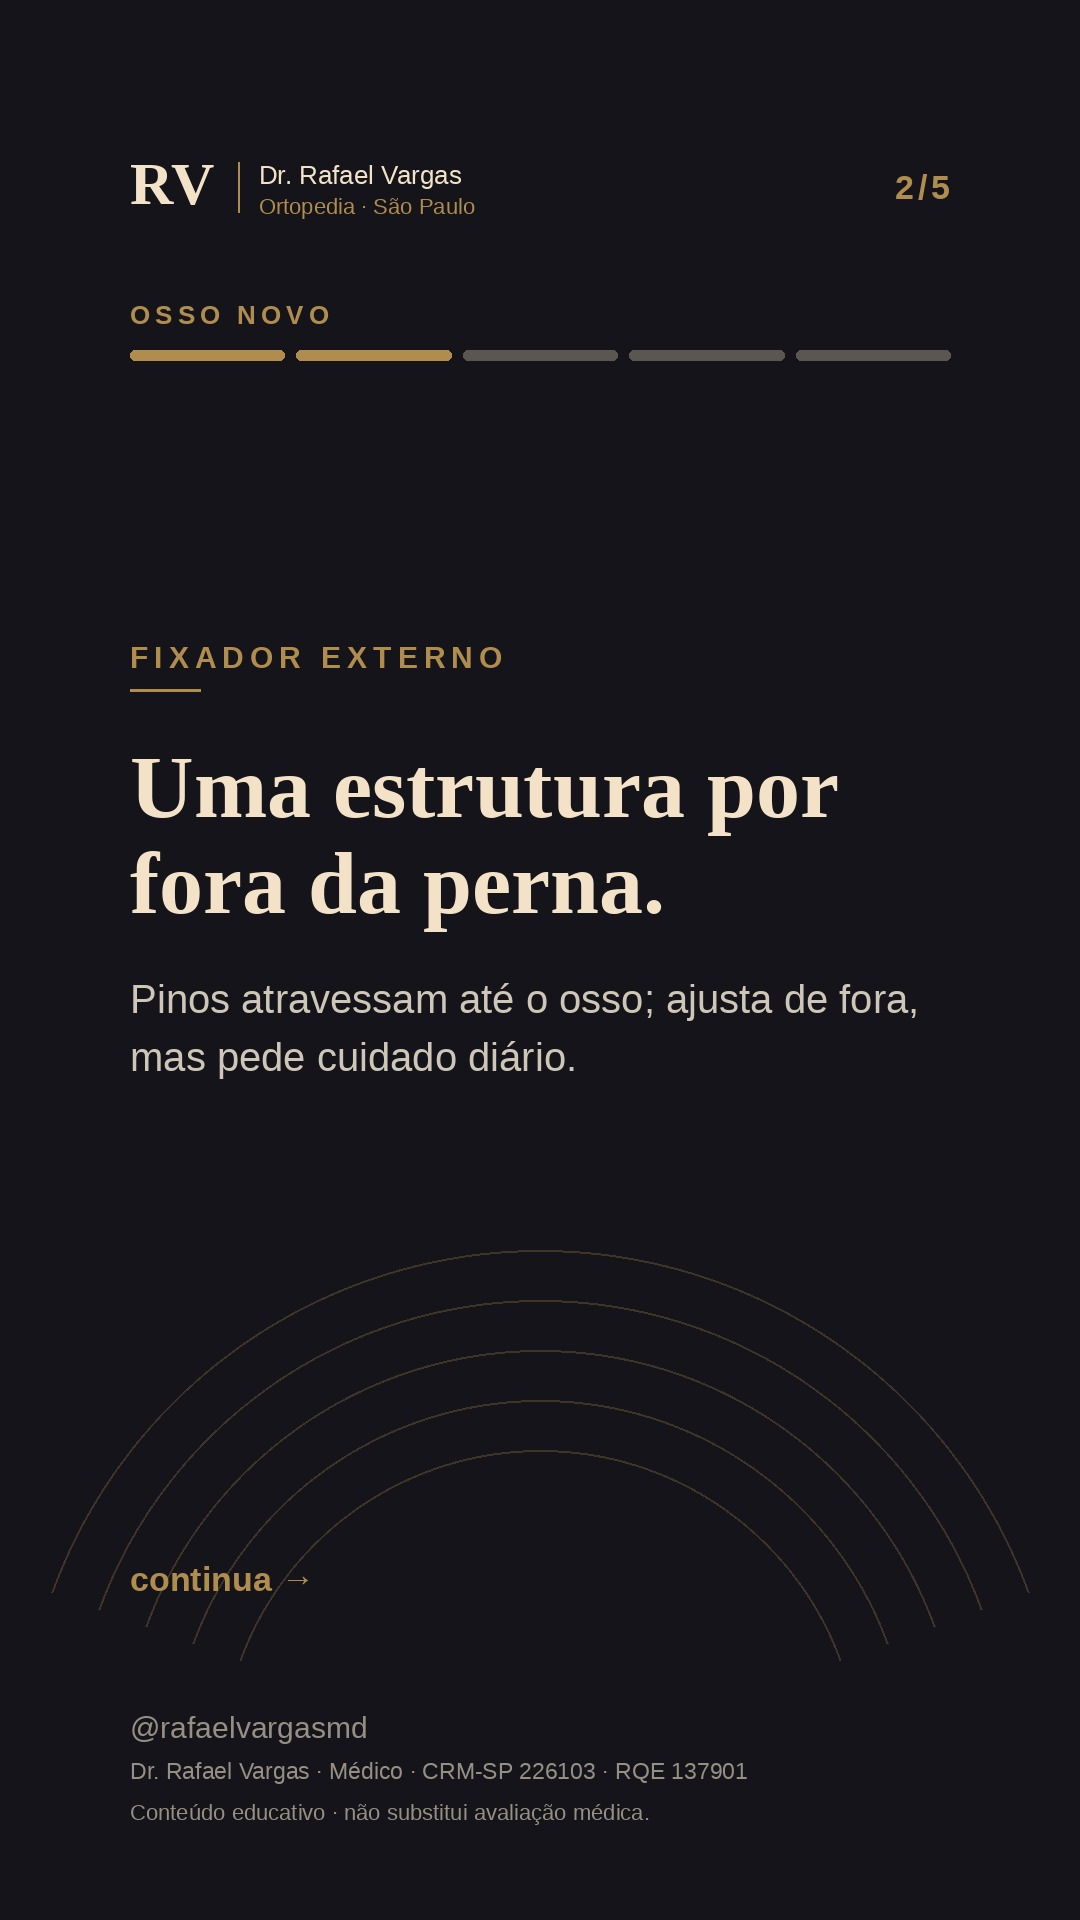
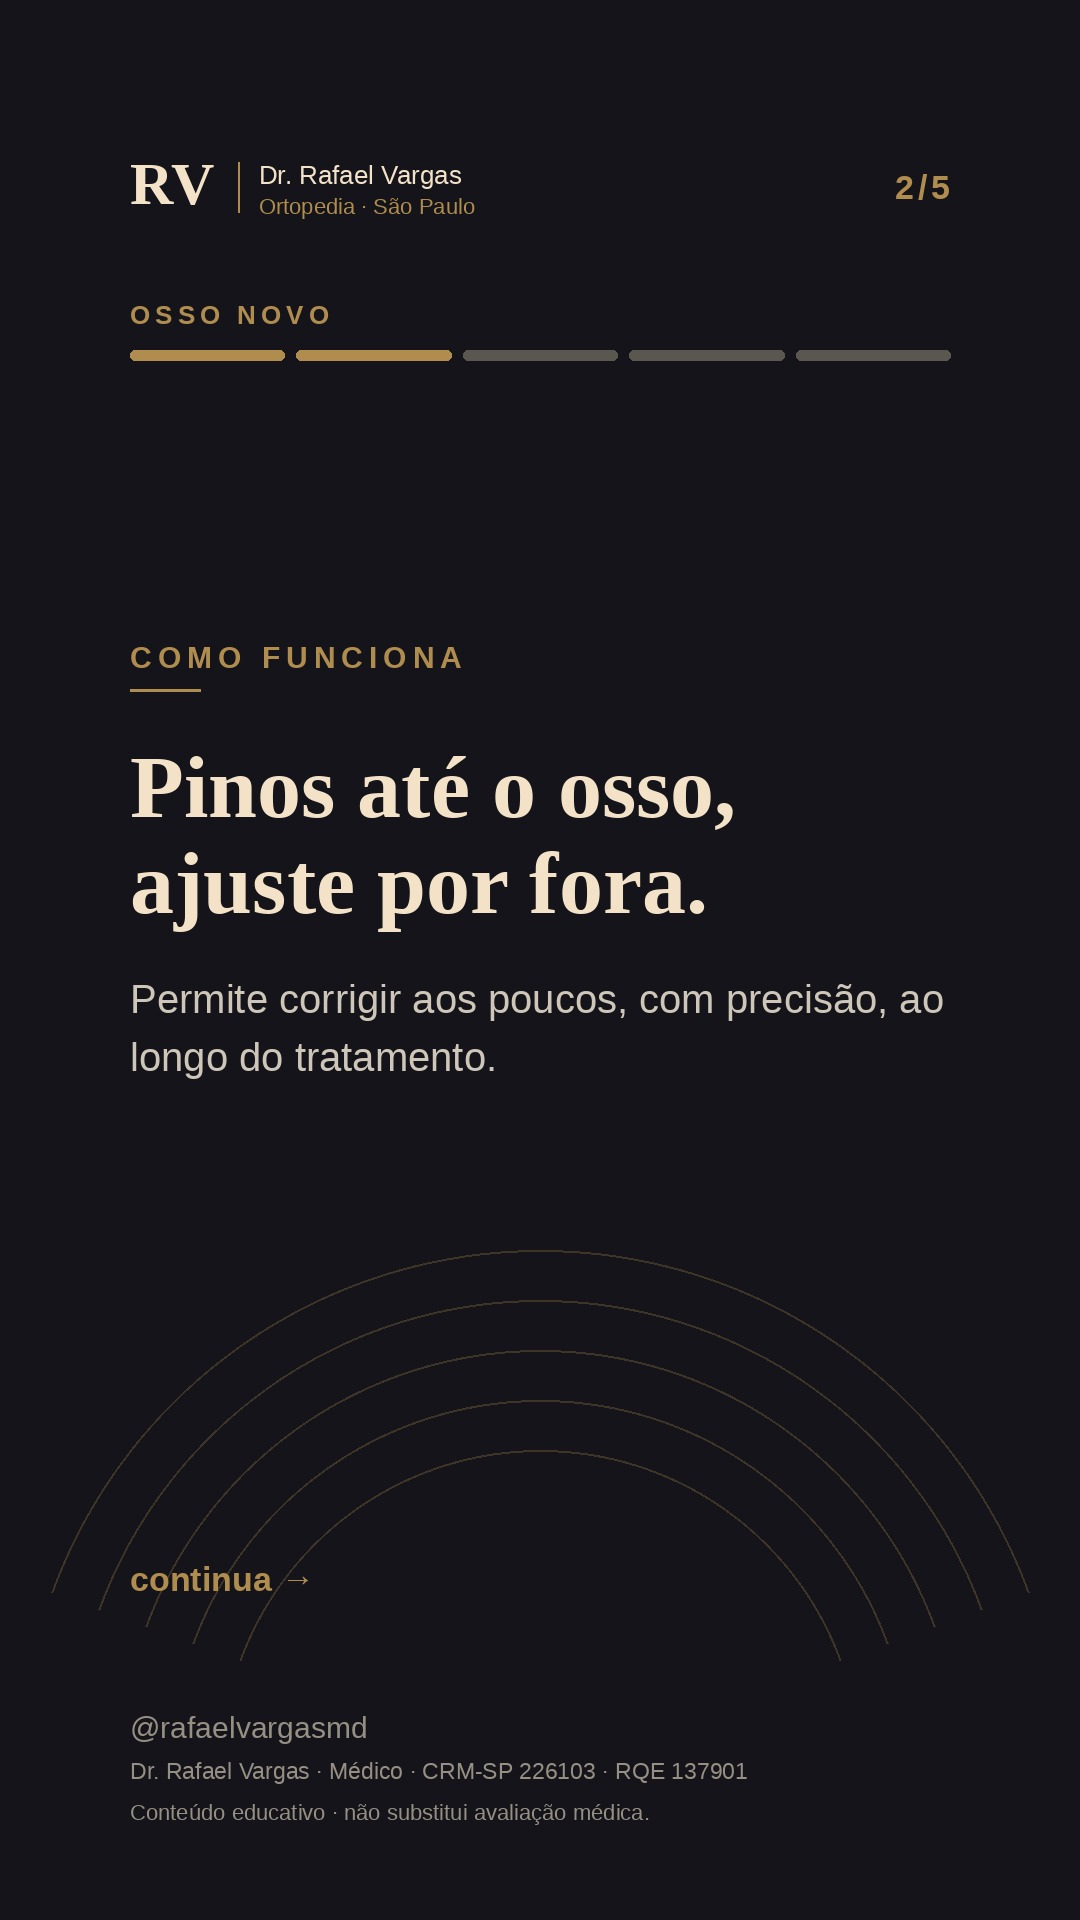
Corrige reel fixador x haste: enquadramento honesto (haste motorizada = alto custo/acesso restrito, nao comparacao leviana) + regenera carrossel/stories + caption

Changed region(s): [[0.1222, 0.375, 0.8861, 0.5625], [0.2444, 0.3125, 0.4278, 0.3438], [0.1222, 0.3125, 0.1833, 0.3438]]

diff --git a/episodios_novos_2026.py b/episodios_novos_2026.py
@@ -208,24 +208,24 @@ OSSO_NOVO = [
    {"k":"Na criança muda","sc":["Mede e remede","enquanto cresce."],"e":None,"sub":"Na criança, a previsão considera o quanto ainda vai crescer.",
     "vo":"E na criança tem um detalhe a mais: como ela ainda cresce, a gente mede e remede ao longo do tempo, prevendo a diferença lá no final do crescimento."},
    {"k":"Passa adiante","sc":["Salva: medir","é metade do tratamento."],"e":None,"sub":"Manda pra quem vai investigar uma diferença nas pernas.","cta":True,
-    "vo":"Salva isso: medir é metade do tratamento. E com o quê se corrige de verdade? Fixador por fora ou haste por dentro. É o próximo."},
+    "vo":"Salva isso: medir é metade do tratamento. E com o quê se segura o osso pra corrigir? É o próximo."},
   ],
   "caption":cap_rec("Discrepância: medir antes de corrigir. Sem a medida exata, não há como escolher o tratamento. A escanometria (exame de imagem) mostra no milímetro o comprimento real de cada osso — não é no olho nem na fita métrica. Cada faixa de milímetros aponta para uma solução diferente. Na criança, mede-se e remede-se ao longo do tempo, prevendo a diferença no final do crescimento. Corrigir, aqui, é sempre sobre função e marcha — nunca estética ou altura.","#escanometria #discrepancia")},
 
  {"id":"on_fixador_vs_haste","ep":13,"serie":"Osso Novo","temporada":"os-caminhos-do-conserto","motif_family":"bone",
   "scenes":[
-   {"k":"Duas ferramentas","sc":["Por fora ou","por dentro?"],"e":None,"sub":"Os dois corrigem e alongam osso — de jeitos diferentes.",
-    "vo":"Quando o assunto é alongar ou corrigir osso, existem dois grandes caminhos: um aparelho por fora ou uma haste por dentro. Os dois funcionam, de jeitos diferentes."},
-   {"k":"Fixador externo","sc":["Uma estrutura","por fora da perna."],"e":None,"sub":"Pinos atravessam até o osso; ajusta de fora, mas pede cuidado diário.",
-    "vo":"O fixador externo é aquela estrutura por fora, com pinos que vão até o osso. Permite ajustar de fora com precisão, mas pede cuidado diário e fica visível por um tempo."},
-   {"k":"Haste interna","sc":["Um pino dentro","do próprio osso."],"e":None,"sub":"Algumas alongam por controle externo; mais discreta, com indicações próprias.",
-    "vo":"Já a haste interna fica dentro do osso, escondida. Algumas modernas até alongam por controle remoto. É mais discreta, mas tem indicações próprias e limites."},
-   {"k":"Qual escolher","sc":["Depende do caso,","não da moda."],"e":None,"sub":"Tamanho da correção, osso, idade e infecção pesam na escolha.",
-    "vo":"E qual é melhor? Depende. O tamanho da correção, o estado do osso, a idade e o histórico de infecção é que apontam a melhor ferramenta. Não existe resposta única."},
-   {"k":"Passa adiante","sc":["Salva: fixador","x haste."],"e":None,"sub":"Manda pra quem está pesquisando antes de operar.","cta":True,
-    "vo":"Salva essa comparação. E a pergunta número um de quem vai operar: quanto tempo eu fico com isso? É o próximo."},
+   {"k":"A ferramenta principal","sc":["O fixador externo,","por fora do osso."],"e":None,"sub":"A estrutura que segura e alonga o osso no ritmo certo — e a mais acessível.",
+    "vo":"Pra alongar ou reconstruir um osso, é preciso uma estrutura que o segure no ritmo certo. A principal, e de longe a mais acessível, é o fixador externo."},
+   {"k":"Como funciona","sc":["Pinos até o osso,","ajuste por fora."],"e":None,"sub":"Permite corrigir aos poucos, com precisão, ao longo do tratamento.",
+    "vo":"São pinos que atravessam até o osso, presos numa estrutura por fora. Isso permite ir ajustando a correção aos pouquinhos, com precisão, ao longo do tratamento."},
+   {"k":"E a haste por dentro?","sc":["Existe — mas não é","opção de prateleira."],"e":None,"sub":"Fica dentro do osso; é de custo muito alto e acesso restrito, p/ casos específicos.",
+    "vo":"Você talvez tenha ouvido falar das hastes que ficam dentro do osso, algumas até motorizadas. Elas existem, mas são de custo altíssimo e acesso restrito. Não é uma opção de prateleira, e serve pra situações específicas."},
+   {"k":"O que decide","sc":["A indicação — e a","realidade de cada um."],"e":None,"sub":"Estado do osso, tipo de correção e a realidade de custo e acesso pesam juntos.",
+    "vo":"Por isso não dá pra tratar como uma escolha de menu. O que decide é a indicação pro seu caso, junto com a realidade de custo e de acesso. A equipe pondera o que é seguro e viável pra você."},
+   {"k":"Passa adiante","sc":["Salva: a real do","fixador externo."],"e":None,"sub":"O foco é função e o que é viável — nunca vitrine, estética ou altura.","cta":True,
+    "vo":"Salva e compartilha. O foco é sempre devolver função, com o que é viável e seguro, nunca estética. E a pergunta número um de quem vai operar: quanto tempo fico com isso? É o próximo."},
   ],
-  "caption":cap_rec("Fixador externo x haste interna. Os dois corrigem e alongam osso, de jeitos diferentes. O fixador externo é a estrutura por fora, com pinos até o osso: permite ajuste fino de fora, mas pede cuidado diário e fica visível por um tempo. A haste interna fica dentro do osso, discreta — algumas modernas alongam por controle externo, com indicações próprias. Qual usar depende do caso (tamanho da correção, estado do osso, idade, infecção), não da moda. Aqui, alongar e corrigir osso é sempre sobre função — nunca estética ou altura.","#fixadorexterno #hasteintramedular")},
+  "caption":cap_rec("Como o osso é segurado para alongar ou reconstruir. A ferramenta principal — e de longe a mais acessível — é o fixador externo: pinos até o osso presos numa estrutura por fora, que permite ajustar a correção aos poucos, com precisão. Existem também hastes internas (algumas motorizadas), mas são de custo muito alto e acesso restrito, para indicações específicas — não são uma opção de prateleira. O que decide não é 'a melhor', e sim a indicação somada à realidade de custo e acesso de cada pessoa. O foco é sempre função e o que é viável — nunca estética ou altura.","#fixadorexterno #reconstrucaoossea")},
 
  {"id":"on_quanto_tempo","ep":14,"serie":"Osso Novo","temporada":"os-caminhos-do-conserto","motif_family":"bone",
   "scenes":[
